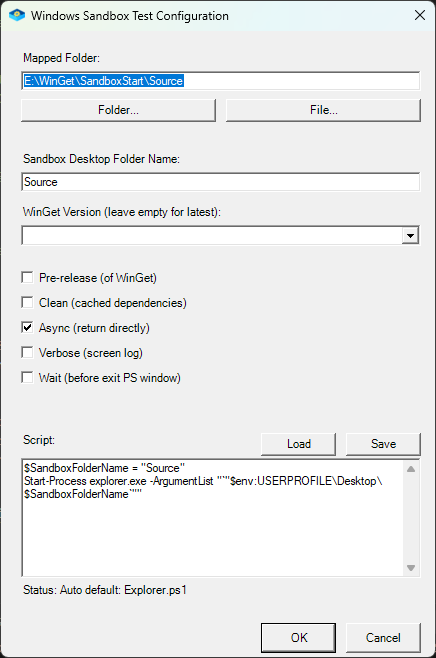
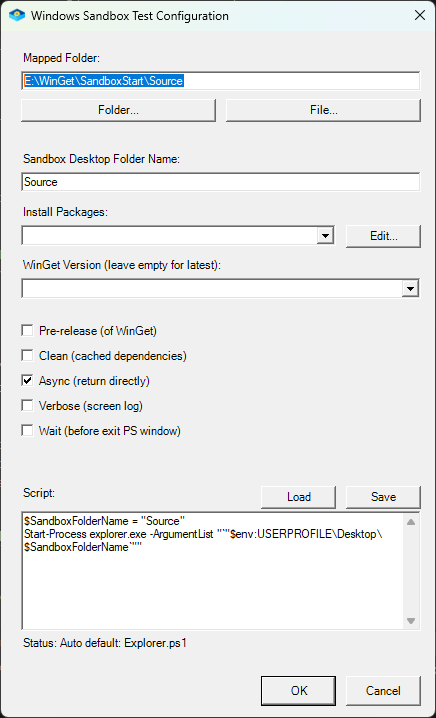
Add List editor image to README and update GUI image

diff --git a/README.md b/README.md
@@ -11,7 +11,7 @@ Features automatic WinGet installation, script mapping system, and customizable 
 > **Note:** This project is extracted from [KnifMelti/WAU-Settings-GUI](https://github.com/KnifMelti/WAU-Settings-GUI) and made into a standalone tool.<br>
 > It depends on the [KnifMelti/SandboxTest-Shared](https://github.com/KnifMelti/SandboxTest-Shared) repository as a **Submodule**.
 
-<img src="https://github.com/KnifMelti/SandboxStart/blob/master/Source/assets/GUI.png" alt="GUI Dialog">
+<img src="https://github.com/KnifMelti/SandboxStart/blob/master/Source/assets/GUI.png" alt="GUI Dialog"><img src="https://github.com/KnifMelti/SandboxStart/blob/master/Source/assets/List.png" alt="List editor>
 
 ## ✨ Features
 
